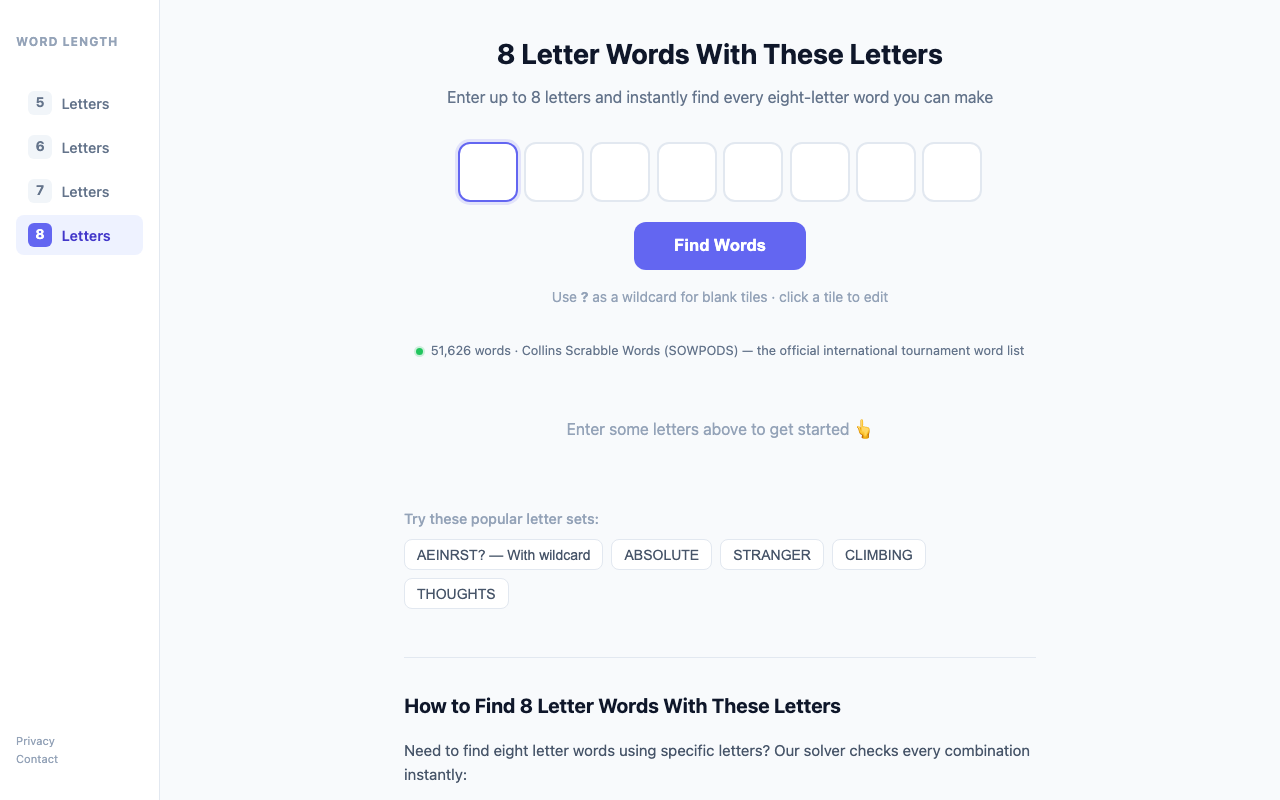
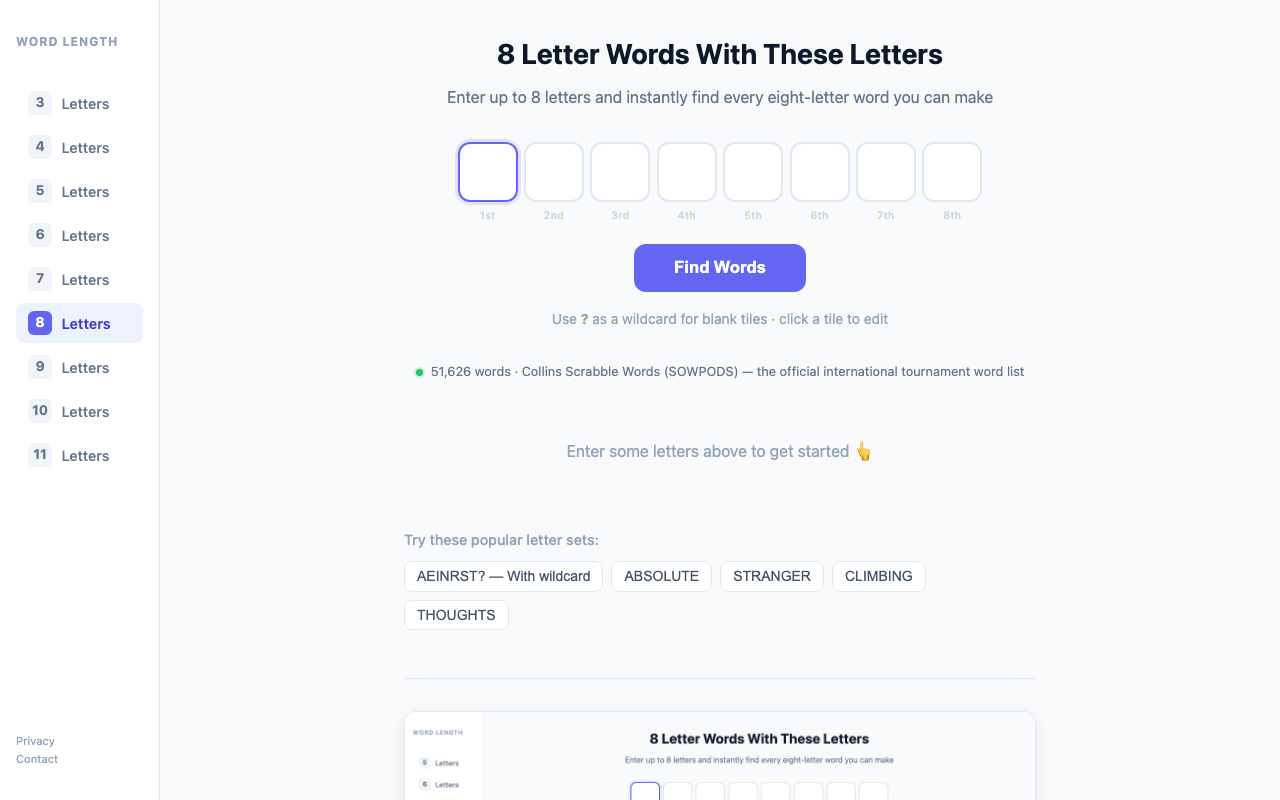
feat: add/update screenshots for all letter pages
- Add new screenshots for 3-letter and 4-letter pages
- Refresh screenshots for 5-11 letter pages to reflect latest UI
- Add <img> tag to 3-letter and 4-letter pages

diff --git a/3-letter-words-with-these-letters/index.html b/3-letter-words-with-these-letters/index.html
@@ -270,6 +270,7 @@
     </div>
 
     <div class="info-section">
+      <img src="/images/3-letter-words-finder.png" alt="3 Letter Words With These Letters - word finder tool interface" class="tool-screenshot" width="1280" height="800">
       <h2>How to Find 3 Letter Words With These Letters</h2>
       <p>Need to find three letter words using specific letters? Our solver checks every combination instantly:</p>
       <ul>

diff --git a/4-letter-words-with-these-letters/index.html b/4-letter-words-with-these-letters/index.html
@@ -271,6 +271,7 @@
     </div>
 
     <div class="info-section">
+      <img src="/images/4-letter-words-finder.png" alt="4 Letter Words With These Letters - word finder tool interface" class="tool-screenshot" width="1280" height="800">
       <h2>How to Find 4 Letter Words With These Letters</h2>
       <p>Need to find four letter words using specific letters? Our solver checks every combination instantly:</p>
       <ul>
